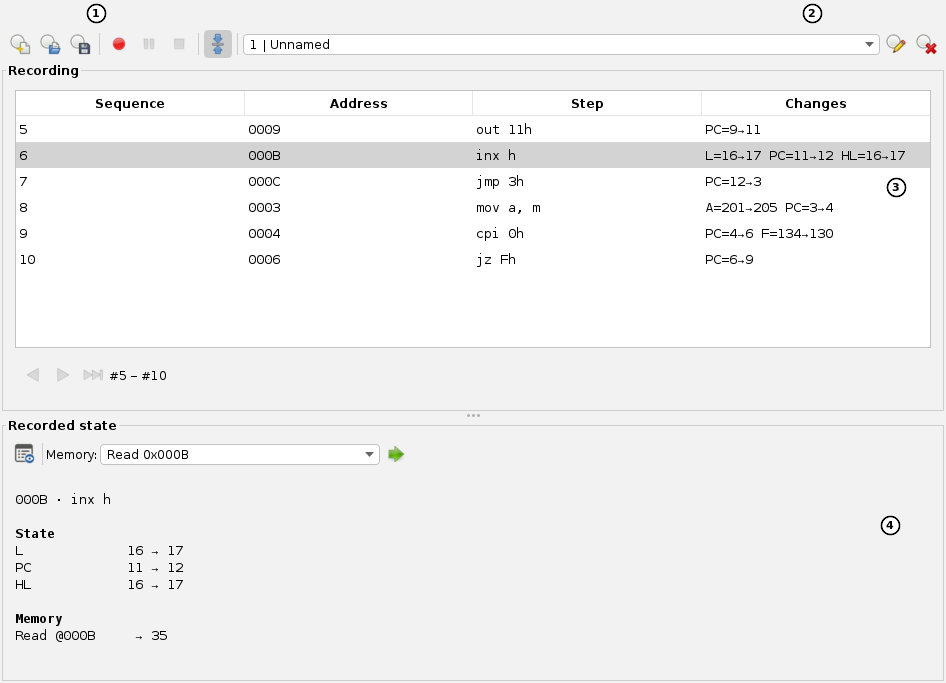
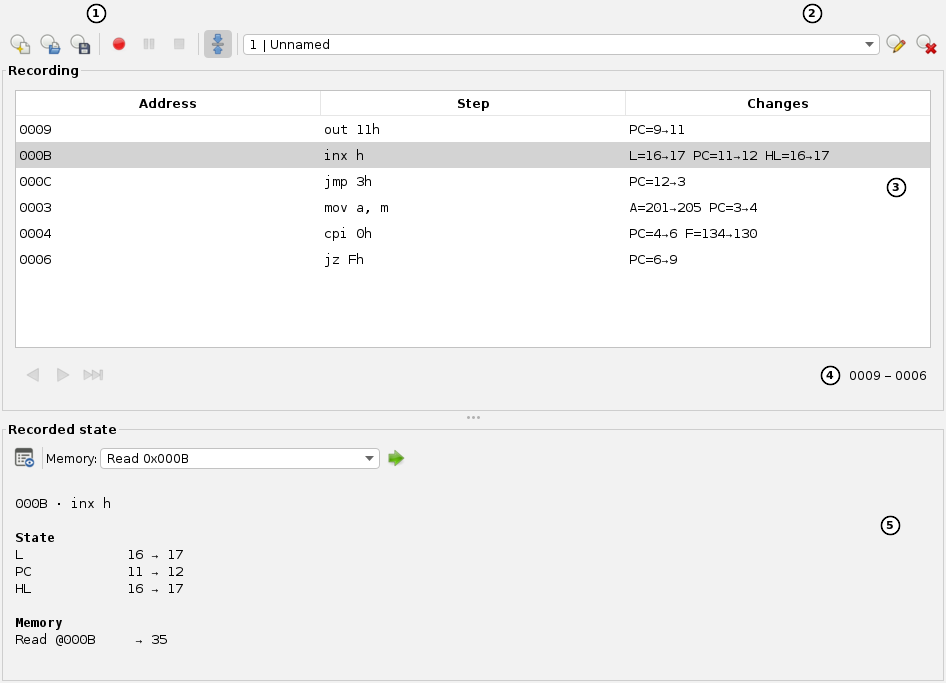
[#454] Clarify debugger and editor screenshot guides

diff --git a/_documentation/user/_doc/application/debugger-analysis.md b/_documentation/user/_doc/application/debugger-analysis.md
@@ -125,21 +125,21 @@ within an inclusive range. **Pause recording** suspends capture while leaving th
 
 ### Inspect recorded state
 
-![Recording with the capture toolbar, recording selector, instruction list, and recorded state]({{ site.baseurl }}/assets/application/debugger-demo-history.png)
+![Recording with numbered controls, an instruction table, the page address range, and recorded state]({{ site.baseurl }}/assets/application/debugger-demo-history.png)
 
 {: .control-list .screenshot-controls}
 | Mark | Explanation |
 |:--:|:--|
 | <span class="circle">1</span> | **Recording actions**. Create, open, save, start, pause, or stop a recording. |
 | <span class="circle">2</span> | **Recording selector and actions**. Select, rename, or remove a recording from the list. |
-| <span class="circle">3</span> | **Recorded instructions**. Select an instruction or page through the recording. |
-| <span class="circle">4</span> | **Recorded state**. Read captured values and follow memory navigation links. |
+| <span class="circle">3</span> | **Recorded instructions**. The table shows the address, step, and changes for each recorded instruction. |
+| <span class="circle">4</span> | **Recording page**. Use the buttons on the left to browse longer recordings. The right side shows the first and last instruction addresses on the current page. |
+| <span class="circle">5</span> | **Recorded state**. Read captured values and follow memory navigation links. |
 
 1. Select a recording, then select an instruction in its table.
 2. Read the recorded state and memory accesses below the table. Use **Show unchanged values** to include unchanged
    registers when the recording provides them.
-3. Select a memory navigation link and use **Find previous write** to trace an earlier write to that address. Use
-   the page controls to browse longer recordings.
+3. Select a memory navigation link and use **Find previous write** to trace an earlier write to that address.
 
 Viewing a recording leaves the live emulator state in place. CPU and memory details vary by computer.
 **Edit recording** changes the selected entry's display name. **Delete recording** removes the entry from the list

diff --git a/_documentation/user/_doc/application/main-window.md b/_documentation/user/_doc/application/main-window.md
@@ -26,7 +26,7 @@ Use **File** and **Edit** for the full command lists, and **Project** to view th
 | <span class="circle">1</span> | **Editor toolbar**. Open and save files, find text, compile the active file, and adjust font zoom. |
 | <span class="circle">2</span> | **File tabs**. Switch between open files. An asterisk marks an unsaved change. |
 | <span class="circle">3</span> | **Source view**. Edit the active file with syntax highlighting and line numbers. |
-| <span class="circle">4</span> | **Compiler output**. Check messages after compilation. Drag the divider to resize this pane. |
+| <span class="circle">4</span> | **Compiler output**. Check messages after compilation. Drag the divider to resize this pane, or click a divider arrow to collapse or restore it. |
 
 1. Open a file that the selected computer's compiler supports.
 2. Save modified include files so the compiler reads their current contents from disk. Stop the emulator if it is running.
@@ -55,7 +55,8 @@ The **Emulator** tab puts execution controls above the workspace. **Debugger** s
 | <span class="circle">5</span> | **Watches**. Evaluate expressions when execution stops or pauses. |
 | <span class="circle">6</span> | **Peripheral devices**. Select a device, then choose **Show device…** or **Show settings…** when available. |
 
-Drag the dividers to give a panel more room. See [Debugger inspection]({{ '/application/debugger-analysis' | relative_url }})
+Drag a divider to resize the panels on either side. Click a divider arrow to collapse the panel it points toward.
+Click the remaining arrow to restore the panel. See [Debugger inspection]({{ '/application/debugger-analysis' | relative_url }})
 for breakpoints, annotations, watches, and recordings.
 
 ### Use the execution toolbar

diff --git a/artwork/README.md b/artwork/README.md
@@ -26,7 +26,7 @@ Alternatively, render the existing asciinema recording with `agg --theme asciine
 
 ## Thumbnails of screenshots
 
-Capture emuStudio windows at their normal size with the application's default IntelliJ theme. Include only the window
+Capture emuStudio windows at their normal size with the default `LIGHT` theme. Include only the window
 or panel being explained. On Wayland, capture the window region with `grim`; Java Robot can return a black image for
 XWayland windows. Move the mouse pointer outside the capture area before taking each screenshot. Keep terminal text
 and display canvases in the capture.
